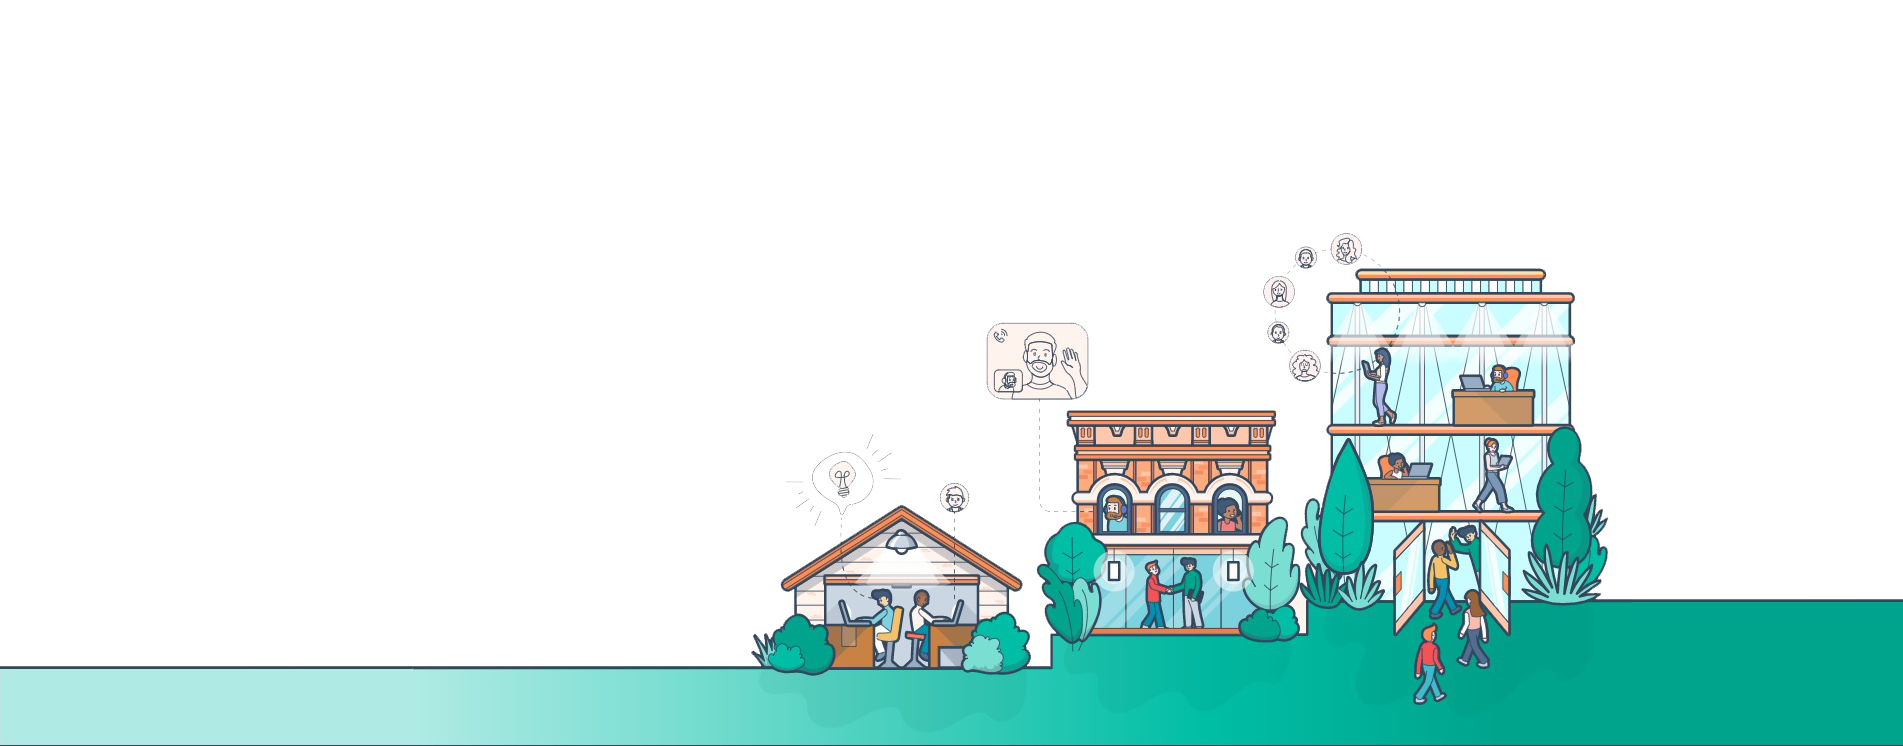
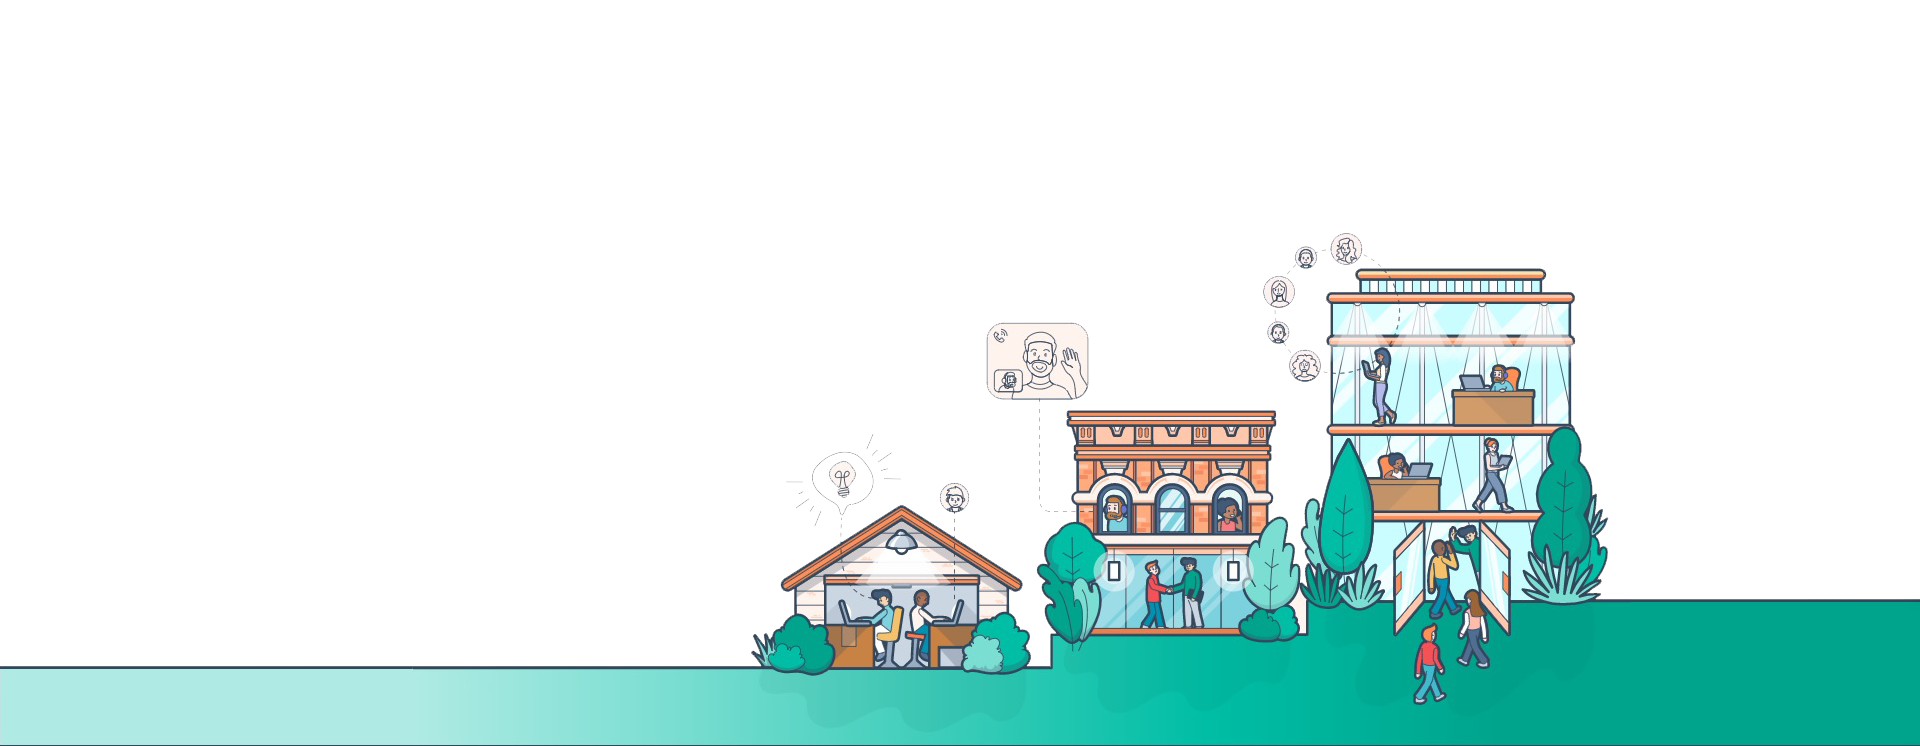
jumbo image fix

Changed region(s): [[0.372, 0.3083, 0.8681, 0.9558], [0.4961, 0.4316, 0.5891, 0.5241]]

diff --git a/style.css b/style.css
@@ -70,7 +70,7 @@
     height: 746px;
     box-shadow: inset 1px 7px 17px -4px rgba(0,0,0,0.09);
     background-image: url(img/jumbo.png);
-    background-size: auto;
+    background-size: contain;
 }
 
 footer {
